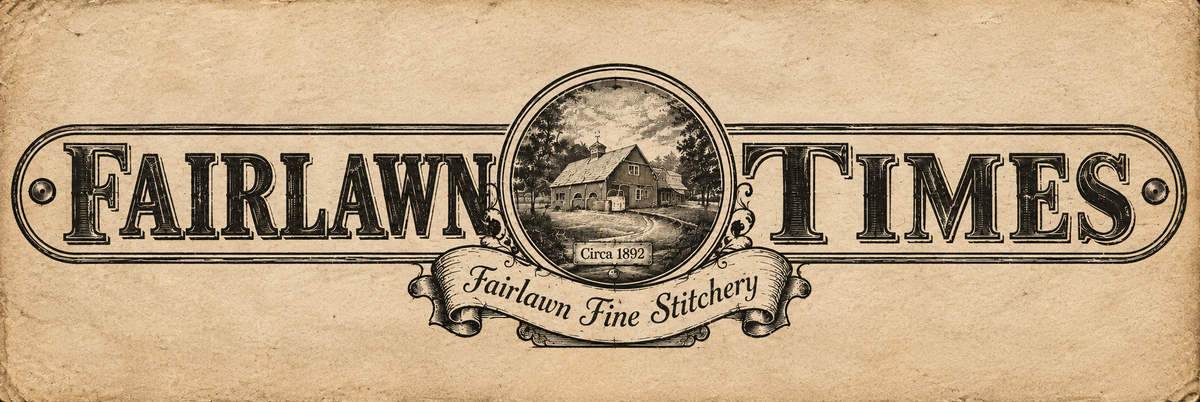
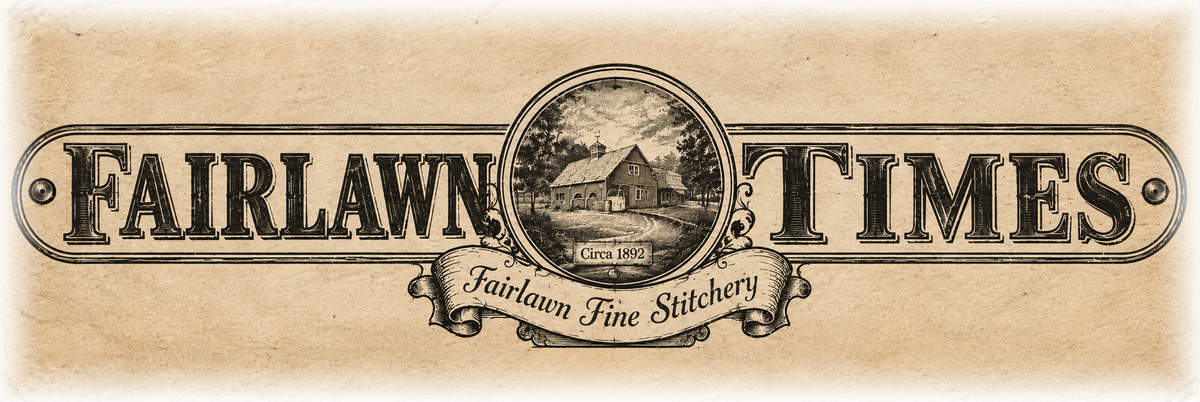
Update site

Changed region(s): [[0.0, 0.0, 1.0, 1.0]]

diff --git a/fairlawn-style.css b/fairlawn-style.css
@@ -88,8 +88,8 @@ a{color:inherit;}
 
 /* ---------- MASTHEAD ---------- */
 .masthead{
-  display:grid; grid-template-columns:150px 1fr; align-items:center; gap:20px;
-  padding:6px 0 18px;
+  display:flex; justify-content:center; align-items:center;
+  padding:10px 0 20px;
 }
 .medallion{
   aspect-ratio:1; border-radius:50%; border:4px double var(--ink);
@@ -106,9 +106,7 @@ a{color:inherit;}
   display:flex; justify-content:center; align-items:center;
 }
 .times-badge img{
-  width:100%; max-width:560px; height:auto; display:block;
-  border:3px double var(--ink);
-  box-shadow:2px 3px 0 rgba(33,29,22,0.15), inset 0 0 0 2px rgba(33,29,22,0.15);
+  width:100%; max-width:700px; height:auto; display:block;
 }
 .sr-only{
   position:absolute; width:1px; height:1px; padding:0; margin:-1px;

diff --git a/about.html b/about.html
@@ -22,10 +22,6 @@
 
   <!-- ================= MASTHEAD ================= -->
   <div class="masthead">
-    <div class="medallion">
-      <svg class="thread-icon" viewBox="0 0 64 64"><circle cx="32" cy="32" r="20" fill="none" stroke="#211d16" stroke-width="2"/><path d="M18 22 C28 30, 36 34, 46 42 M18 42 C28 34, 36 30, 46 22" fill="none" stroke="#6f2430" stroke-width="1.4"/></svg>
-      <div class="cap">Heidi Briere<br>Proprietress</div>
-    </div>
     <div class="times-badge">
       <img src="fairlawn-times-badge.png" alt="Fairlawn Times — Fairlawn Fine Stitchery, Circa 1892">
       <h1 class="sr-only">Fairlawn Fine Stitchery &amp; the Tuxedo Shoppe</h1>

diff --git a/catalog.html b/catalog.html
@@ -22,10 +22,6 @@
 
   <!-- ================= MASTHEAD ================= -->
   <div class="masthead">
-    <div class="medallion">
-      <svg class="thread-icon" viewBox="0 0 64 64"><circle cx="32" cy="32" r="20" fill="none" stroke="#211d16" stroke-width="2"/><path d="M18 22 C28 30, 36 34, 46 42 M18 42 C28 34, 36 30, 46 22" fill="none" stroke="#6f2430" stroke-width="1.4"/></svg>
-      <div class="cap">Heidi Briere<br>Proprietress</div>
-    </div>
     <div class="times-badge">
       <img src="fairlawn-times-badge.png" alt="Fairlawn Times — Fairlawn Fine Stitchery, Circa 1892">
       <h1 class="sr-only">Fairlawn Fine Stitchery &amp; the Tuxedo Shoppe</h1>

diff --git a/contact.html b/contact.html
@@ -22,10 +22,6 @@
 
   <!-- ================= MASTHEAD ================= -->
   <div class="masthead">
-    <div class="medallion">
-      <svg class="thread-icon" viewBox="0 0 64 64"><circle cx="32" cy="32" r="20" fill="none" stroke="#211d16" stroke-width="2"/><path d="M18 22 C28 30, 36 34, 46 42 M18 42 C28 34, 36 30, 46 22" fill="none" stroke="#6f2430" stroke-width="1.4"/></svg>
-      <div class="cap">Heidi Briere<br>Proprietress</div>
-    </div>
     <div class="times-badge">
       <img src="fairlawn-times-badge.png" alt="Fairlawn Times — Fairlawn Fine Stitchery, Circa 1892">
       <h1 class="sr-only">Fairlawn Fine Stitchery &amp; the Tuxedo Shoppe</h1>

diff --git a/home.html b/home.html
@@ -22,10 +22,6 @@
 
   <!-- ================= MASTHEAD ================= -->
   <div class="masthead">
-    <div class="medallion">
-      <svg class="thread-icon" viewBox="0 0 64 64"><circle cx="32" cy="32" r="20" fill="none" stroke="#211d16" stroke-width="2"/><path d="M18 22 C28 30, 36 34, 46 42 M18 42 C28 34, 36 30, 46 22" fill="none" stroke="#6f2430" stroke-width="1.4"/></svg>
-      <div class="cap">Heidi Briere<br>Proprietress</div>
-    </div>
     <div class="times-badge">
       <img src="fairlawn-times-badge.png" alt="Fairlawn Times — Fairlawn Fine Stitchery, Circa 1892">
       <h1 class="sr-only">Fairlawn Fine Stitchery &amp; the Tuxedo Shoppe</h1>

diff --git a/services.html b/services.html
@@ -22,10 +22,6 @@
 
   <!-- ================= MASTHEAD ================= -->
   <div class="masthead">
-    <div class="medallion">
-      <svg class="thread-icon" viewBox="0 0 64 64"><circle cx="32" cy="32" r="20" fill="none" stroke="#211d16" stroke-width="2"/><path d="M18 22 C28 30, 36 34, 46 42 M18 42 C28 34, 36 30, 46 22" fill="none" stroke="#6f2430" stroke-width="1.4"/></svg>
-      <div class="cap">Heidi Briere<br>Proprietress</div>
-    </div>
     <div class="times-badge">
       <img src="fairlawn-times-badge.png" alt="Fairlawn Times — Fairlawn Fine Stitchery, Circa 1892">
       <h1 class="sr-only">Fairlawn Fine Stitchery &amp; the Tuxedo Shoppe</h1>
